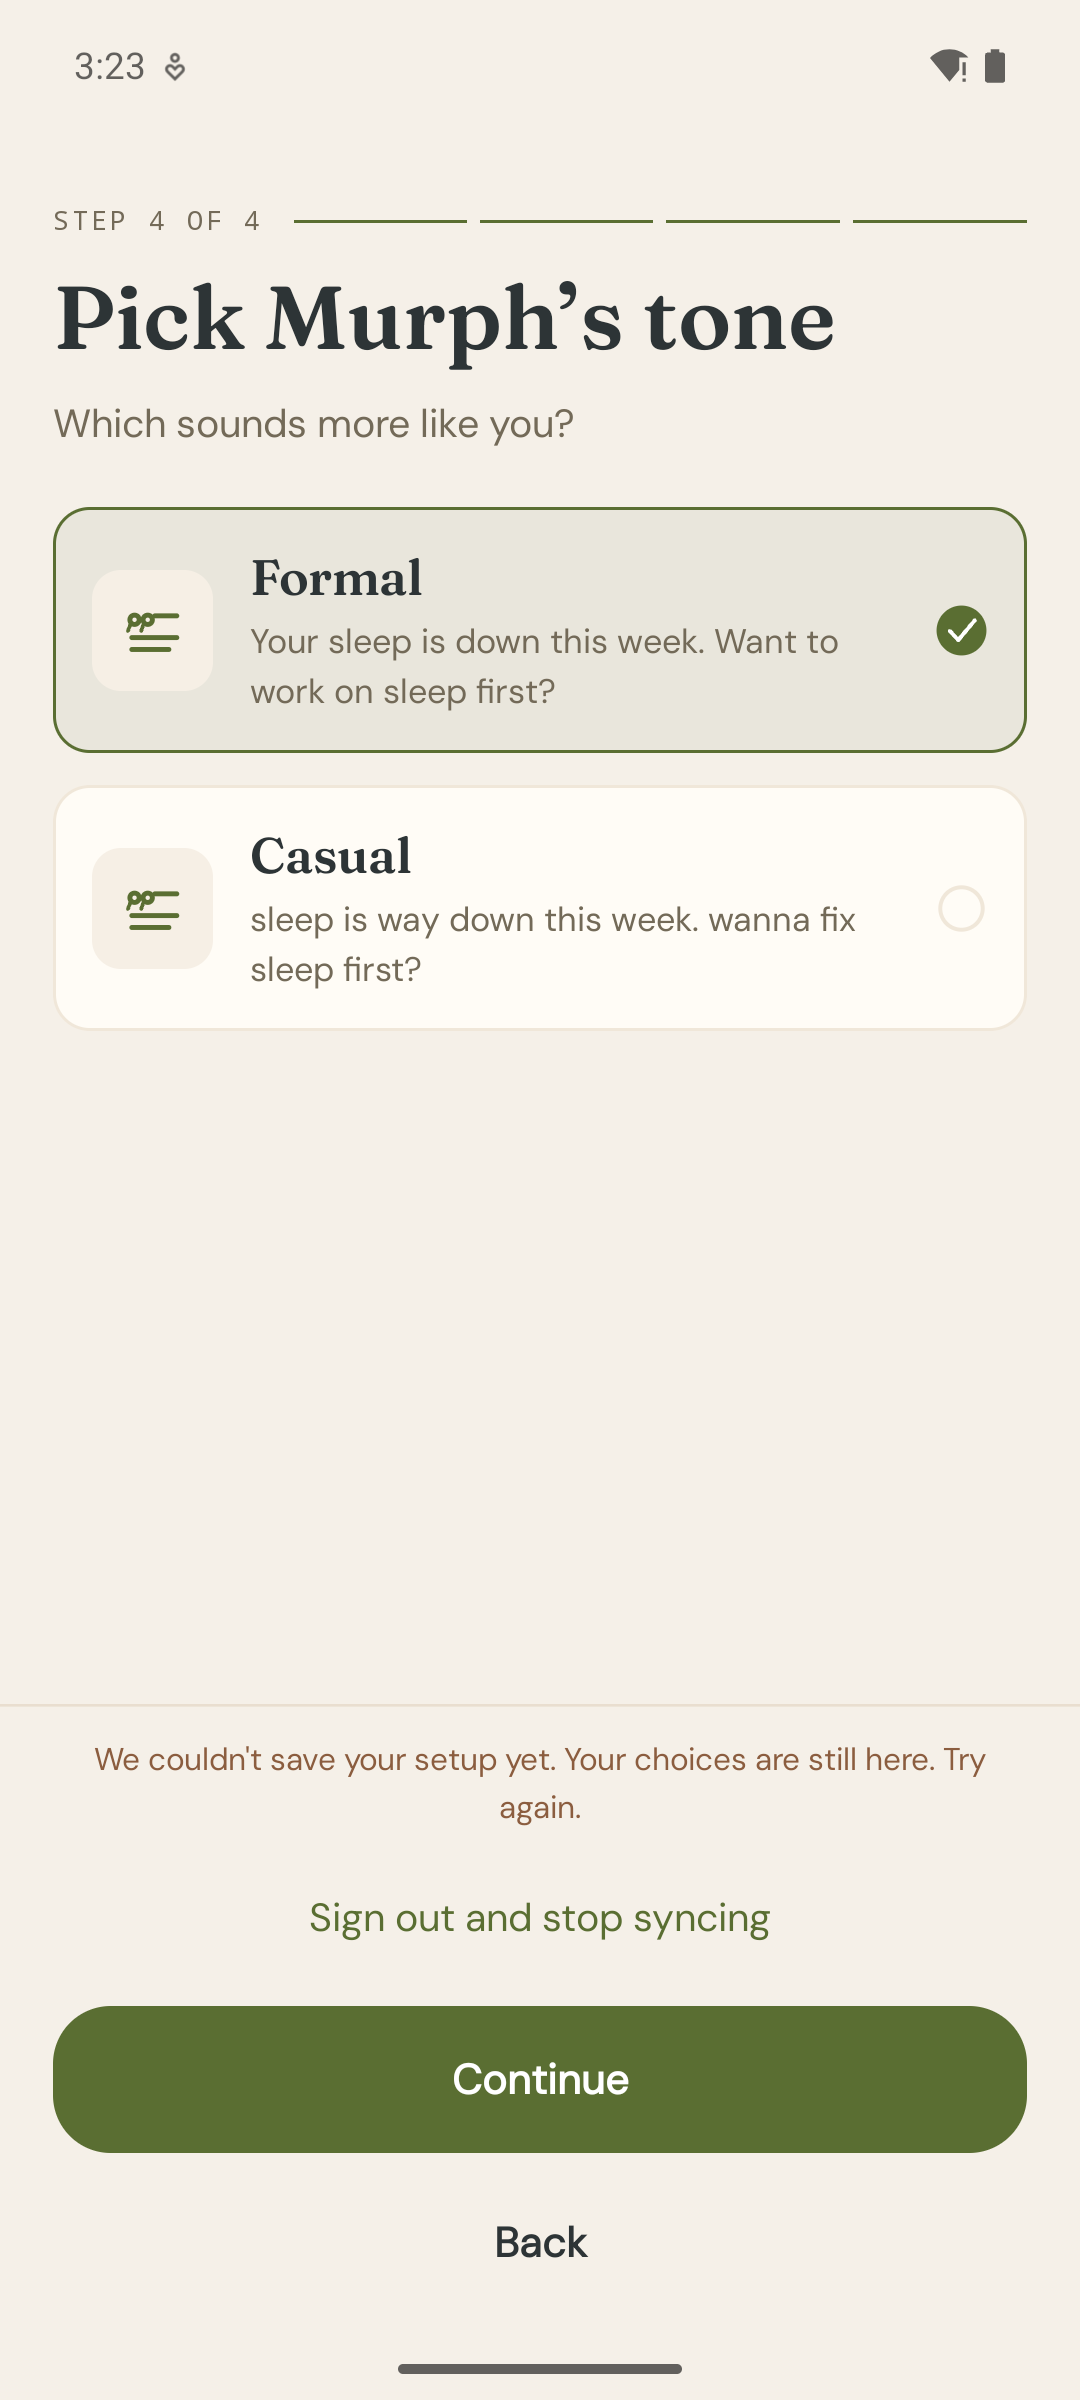
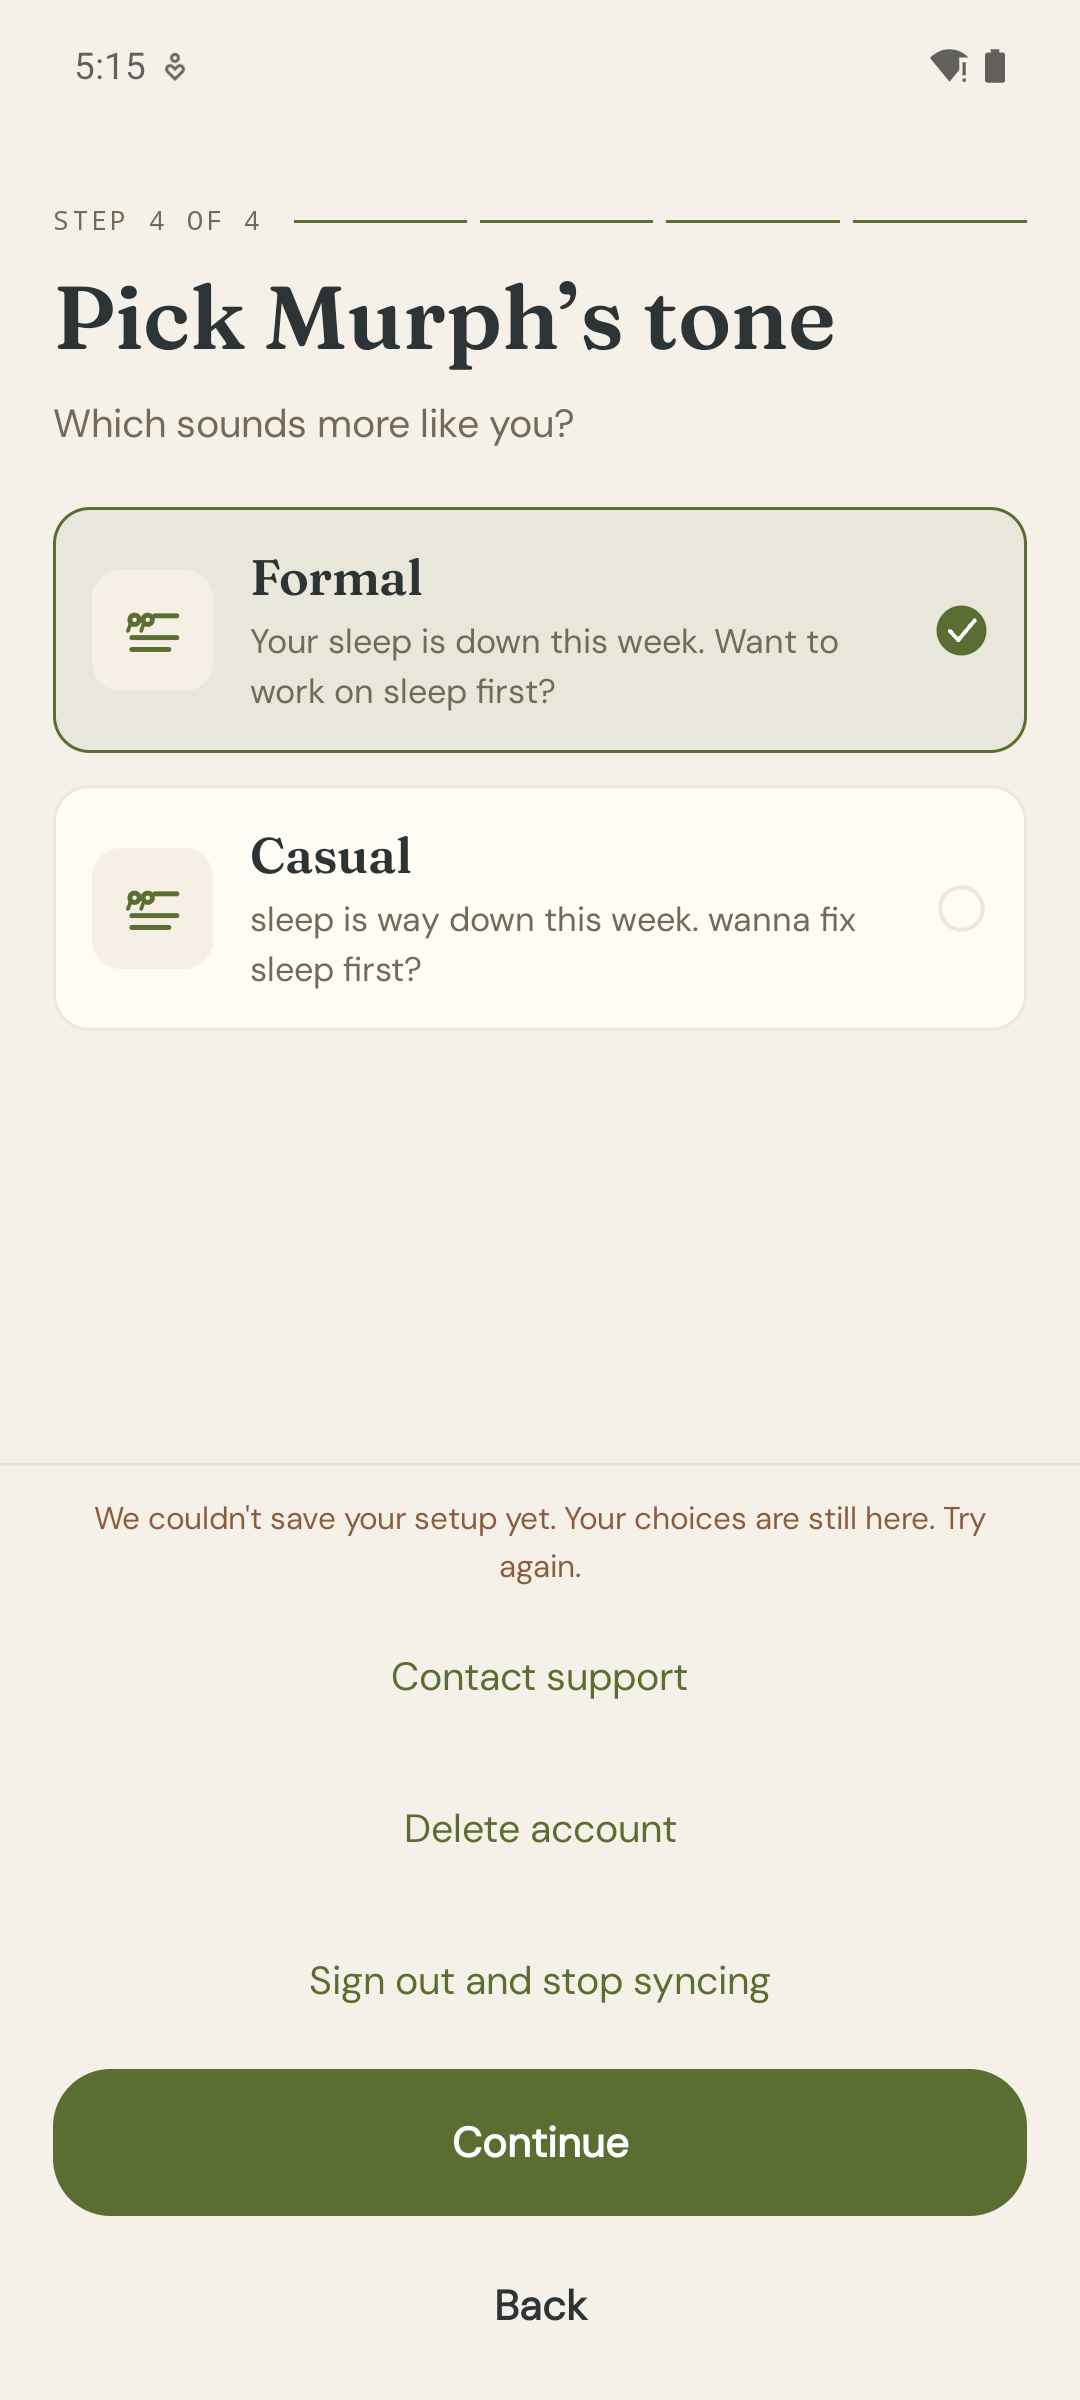
Keep onboarding failure recovery direct

diff --git a/app/src/androidTest/java/ai/withmurph/companion/visual/ScreenshotScenarioSmokeTest.kt b/app/src/androidTest/java/ai/withmurph/companion/visual/ScreenshotScenarioSmokeTest.kt
@@ -4,9 +4,12 @@ import ai.withmurph.companion.consumeHealthSyncReminderSettingsIntent
 import ai.withmurph.companion.reminders.HealthSyncReminderController
 import android.content.Context
 import android.content.Intent
+import androidx.compose.ui.test.assertCountEquals
+import androidx.compose.ui.test.assertHasClickAction
 import androidx.compose.ui.test.assertIsDisplayed
 import androidx.compose.ui.test.junit4.ComposeTestRule
 import androidx.compose.ui.test.junit4.createEmptyComposeRule
+import androidx.compose.ui.test.onAllNodesWithText
 import androidx.compose.ui.test.onNodeWithText
 import androidx.compose.ui.test.performClick
 import androidx.compose.ui.test.performScrollTo
@@ -36,6 +39,17 @@ class ScreenshotScenarioSmokeTest {
     fun onboardingFixtureRendersProductionChoiceSurface() = withScenario("onboardingPersona") {
         onNodeWithText("Choose Murph’s main personality").assertIsDisplayed()
         onNodeWithText("Classic").assertIsDisplayed()
+        onAllNodesWithText("Contact support").assertCountEquals(0)
+        onAllNodesWithText("Delete account").assertCountEquals(0)
+        onAllNodesWithText("Settings").assertCountEquals(0)
+    }
+
+    @Test
+    fun onboardingErrorFixtureRendersDirectAccountRecovery() = withScenario("onboardingError") {
+        onNodeWithText("Contact support").assertIsDisplayed().assertHasClickAction()
+        onNodeWithText("Delete account").assertIsDisplayed().assertHasClickAction()
+        onNodeWithText("Sign out and stop syncing").assertIsDisplayed().assertHasClickAction()
+        onAllNodesWithText("Settings").assertCountEquals(0)
     }
 
     @Test

diff --git a/app/src/main/java/ai/withmurph/companion/ui/onboarding/InitialOnboardingScreen.kt b/app/src/main/java/ai/withmurph/companion/ui/onboarding/InitialOnboardingScreen.kt
@@ -271,6 +271,16 @@ fun InitialOnboardingScreen(
                         textAlign = TextAlign.Center,
                     )
                     MurphLinkButton(
+                        text = "Contact support",
+                        onClick = actions.onOpenSupport,
+                        enabled = !state.isInitialOnboardingSaving,
+                    )
+                    MurphLinkButton(
+                        text = "Delete account",
+                        onClick = actions.onDeleteAccount,
+                        enabled = !state.isInitialOnboardingSaving,
+                    )
+                    MurphLinkButton(
                         text = "Sign out and stop syncing",
                         onClick = actions.onSignOut,
                         enabled = !state.isInitialOnboardingSaving,
